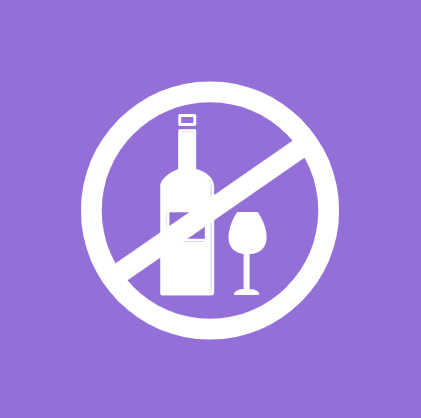
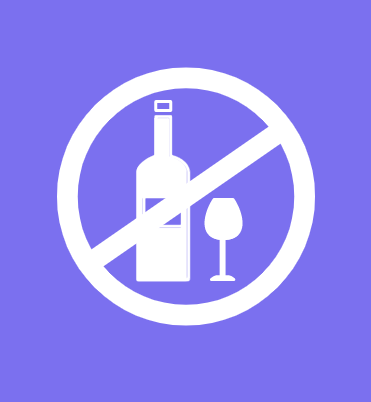
test table

diff --git a/index.html b/index.html
@@ -5,7 +5,8 @@
     <meta charset="UTF-8">
     <meta name="viewport" content="width=device-width, initial-scale=1.0">
 	<meta http-equiv="X-UA-Compatible" content="ie=edge">
-    <title>NO DRINK</title>
+	<title>NO DRINK</title>
+	<script src="https://ajax.googleapis.com/ajax/libs/jquery/3.2.1/jquery.min.js"></script>
 </head>
 <body>
     <div class="header-container">
@@ -15,6 +16,7 @@
 					<li><a class = "a-home" href="#home">홈</a></li>
 					<li><a class = "a-statistics" href="#statistics">현황</a></li>
 					<li><a class = "a-danger" href="#danger">위험성</a></li>
+					<li><a class = "a-test" href="#test">자가진단</a></li>
 					<li><a class = "a-help" href="#help">도움</a></li>
 				</ul>
 			</nav>
@@ -69,26 +71,150 @@
 	</div>
 	<div class="page" id="danger">
 		<div class="icon-container">
-			<h1 style="color: #AB70C1">Click!</h5>
-			<div class="icon" onmouseover="mover1()">
+			<h2 class="text-click" style="color: #AB70C1">마우스를 대 보세요!</h2>
+			<div class="icon icon1" onmouseover="mover1()">
 				<div class="img"><img src="img/image (1).png"/></div>
 				<h2 class="text">수면 장애</h2>
 			</div>
-			<div class="icon" onmouseover="mover2()">
+			<div class="icon icon2" onmouseover="mover2()">
 				<div class="img"><img src="img/image (2).png"/></div>
 				<h2 class="text">약물 부작용</h2>
 			</div>
-			<div class="icon" onmouseover="mover3()">
+			<div class="icon icon3" onmouseover="mover3()">
 				<div class="img"><img src="img/image (3).png"/></div>
 				<h2 class="text">간 질환 발병</h2>
 			</div>
-			<div class="icon" onmouseover="mover4()">
+			<div class="icon icon4" onmouseover="mover4()">
 				<div class="img"><img src="img/image (4).png"/></div>
 				<h2 class="text">암 발병</h2>
 			</div>
 		</div>
 		<div class="detail" style="display: block; margin: 150px 25%; padding: 5px 20px; color:white; background: #AB70C1;">
 			<h4>알코올을 섭취하지 않으면 잠을 잘 수 없는 알코올 의존성 수면장애나 불면증을 겪을 수 있습니다. 알코올의존증 환자의 불면증 유병율은 연구에 따라 36~72%에 육박합니다. 또 알코올은 각성 시에 나타나는 뇌파를 수면 중에 증가시키고 신체회복에 중요한 역할을 하는 렘 수면 또한 차단하여 일어난 후에도 피로를 느끼게 합니다.</h4>
+		</div>
+	</div>
+	<div class="page" id="test">
+		<div class="test-table">
+			<h1 style="color:white; text-align:center">알콜중독 자가진단 테스트</h1>
+			<h5 style="color:white; text-align:center">출처 : 보건복지부</h5>
+			<table style="margin: auto; text-align:center; border-spacing: 10px 30px">
+				<tr>
+					<td>얼마나 술을 자주 마십니까?</td>
+					<td><input type="radio" name="q1" value=0><br>전혀 안 마심</td>
+					<td><input type="radio" name="q1" value=1><br>월 1회 미만</td>
+					<td><input type="radio" name="q1" value=2><br>월 2~3회</td>
+					<td><input type="radio" name="q1" value=3><br>주 2~3회</td>
+					<td><input type="radio" name="q1" value=4><br>주 4회 이상</td>
+				</tr>
+				<tr>
+					<td>술을 마시면 한번에 몇 잔정도 마십니까?</td>
+					<td><input type="radio" name="q2" value=0><br>전혀 안 마심</td>
+					<td><input type="radio" name="q2" value=1><br>소주 1~2잔</td>
+					<td><input type="radio" name="q2" value=2><br>소주 3~4잔</td>
+					<td><input type="radio" name="q2" value=3><br>소주 5~6잔</td>
+					<td><input type="radio" name="q2" value=4><br>소주 7~9잔</td>
+				</tr>
+				<tr>
+					<td>한번에 소주 한 병 또는 맥주4병 이상 마시는 경우는 얼마나 자주 있습니까?</td>
+					<td><input type="radio" name="q3" value=0><br>없음</td>
+					<td><input type="radio" name="q3" value=1><br>월 1회 미만</td>
+					<td><input type="radio" name="q3" value=2><br>월 1회</td>
+					<td><input type="radio" name="q3" value=3><br>주 1회</td>
+					<td><input type="radio" name="q3" value=4><br>거의 매일</td>
+				</tr>
+				<tr>
+					<td>지난 일년간 한번 술을 마시기 시작하면 멈출 수 없었던 때가 얼마나 자주 있었습니까?</td>
+					<td><input type="radio" name="q4" value=0><br>없음</td>
+					<td><input type="radio" name="q4" value=1><br>월 1회 미만</td>
+					<td><input type="radio" name="q4" value=2><br>월 1회</td>
+					<td><input type="radio" name="q4" value=3><br>주 1회</td>
+					<td><input type="radio" name="q4" value=4><br>거의 매일</td>
+				</tr>
+				<tr>
+					<td>지난 일년간 평소 같으면 할수 있었던 일을 음주 때문에 하지 못한 적이 얼마나 자주 있었습니까?</td>
+					<td><input type="radio" name="q5" value=0><br>없음</td>
+					<td><input type="radio" name="q5" value=1><br>월 1회 미만</td>
+					<td><input type="radio" name="q5" value=2><br>월 1회</td>
+					<td><input type="radio" name="q5" value=3><br>주 1회</td>
+					<td><input type="radio" name="q5" value=4><br>거의 매일</td>
+				</tr>
+				<tr>
+					<td>지난 일년간 술을 마신 다음날 해장술을 마신 적은 얼마나 자주 있었습니까?</td>
+					<td><input type="radio" name="q6" value=0><br>없음</td>
+					<td><input type="radio" name="q6" value=1><br>월 1회 미만</td>
+					<td><input type="radio" name="q6" value=2><br>월 1회</td>
+					<td><input type="radio" name="q6" value=3><br>주 1회</td>
+					<td><input type="radio" name="q6" value=4><br>거의 매일</td>
+				</tr>
+				<tr>
+					<td>지난 일년간 음주 후에 죄책감을 느끼거나 후회한 적이 얼마나 자주 있었습니까?</td>
+					<td><input type="radio" name="q7" value=0><br>없음</td>
+					<td><input type="radio" name="q7" value=1><br>월 1회 미만</td>
+					<td><input type="radio" name="q7" value=2><br>월 1회</td>
+					<td><input type="radio" name="q7" value=3><br>주 1회</td>
+					<td><input type="radio" name="q7" value=4><br>거의 매일</td>
+				</tr>
+				<tr>
+					<td>지난 일년간 음주 때문에 전날 밤에 있었던 일이 기억나지 않았던 적이 얼마나 자주 있었습니까?</td>
+					<td><input type="radio" name="q8" value=0><br>없음</td>
+					<td><input type="radio" name="q8" value=1><br>월 1회 미만</td>
+					<td><input type="radio" name="q8" value=2><br>월 1회</td>
+					<td><input type="radio" name="q8" value=3><br>주 1회</td>
+					<td><input type="radio" name="q8" value=4><br>거의 매일</td>
+				</tr>
+				<tr>
+					<td>음주로 인해 자신이나 다른 사람을 다치게 한 적이 있습니까?</td>
+					<td><input type="radio" name="q9" value=0><br>없음</td>
+					<td></td>
+					<td><input type="radio" name="q9" value=2><br>있었지만 지난 1년간은 없음</td>
+					<td></td>
+					<td><input type="radio" name="q9" value=4><br>지난 1년간 있었다.</td>
+				</tr>
+				<tr>
+					<td>친척이나 친구, 의사가 당신이 술 마시는 것을 걱정하거나 당신에게 술 끊기를 권유한 적이 있었습니까?</td>
+					<td><input type="radio" name="q10" value=0><br>없음</td>
+					<td></td>
+					<td><input type="radio" name="q10" value=2><br>있었지만 지난 1년간은 없음</td>
+					<td></td>
+					<td><input type="radio" name="q10" value=4><br>지난 1년간 있었다.</td>
+				</tr>
+			</table>
+			<br>
+			<br>
+			<br>
+			<br>
+			<div class="result-container" style="text-align: center;">
+				<button type="button" class="button" style="text-align: center;">결과 보기</button>
+				<div class="result" style="padding: 5px 20px; color:white;">
+					<h3></h4>
+					<h4></h5>
+				</div>
+			</div>
+			<script type="text/javascript">
+				$(document).ready(function () {
+				  $('.button').click(function () {
+					var value = 0;
+					for (var i = 1; i <= 10; i++) {
+						value += Number($('input[name="q'+i+'"]:checked').val());
+					}
+					if (!isNaN(value)) {
+						if (value < 9) {
+							$(".result h3").text(value + "점 : 정상음주");
+							$(".result h4").text("정상적인 음주습관을 가지고 있습니다.");
+						} else if (value < 12) {
+							$(".result h3").text(value + "점 : 위험음주 수준으로 주의를 요함");
+							$(".result h4").text("아직까지는 특별히 심각한 음주로 인한 문제가 발생하지는 않았지만, 향후 음주로 인한 문제가 발생할 가능성이 있습니다. 음주량을 줄이거나 음주횟수를 줄여 적정음주를 실행하도록 하는 것이 좋습니다.");
+						} else if (value < 20) {
+							$(".result h3").text(value + "점 : 고위험음주 혹은 잠재적인 알콜 사용장애 환자");
+							$(".result h4").text("이미 신체적 건강이나 행동상의 문제가 나타나는 수준으로 속히 전문의의 진찰을 받는 것이 좋습니다.");
+						} else {
+							$(".result h3").text(value + "점 : 알콜 사용장애 환자");
+							$(".result h4").text("이미 알콜 사용장애, 특히 알콜 의존 상태임이 강력히 시사됩니다. 속히 전문의의 진찰을 받고 전문화된 치료를 시작하는 것이 좋습니다.");
+						}
+					}
+				  });
+				});
+			  </script>
 		</div>
 	</div>
 	<div class="page" id="help">

diff --git a/index.js b/index.js
@@ -23,7 +23,21 @@ function draw(max, classname, colorname){
  
  ///////////////////////
  
- var flag = 0;
+ var flag = 0,  i = 0, t = 0;
+
+ textClick = setInterval(function() {
+    if (t == 0) {
+        i++;
+        if (i == 100) t = 1;
+    }
+    if (t == 1){
+        i--;
+        if (i == 0) t = 0;
+    }
+    $(".text-click").css({
+        "opacity":i+"%"
+    });
+ }, 5);
 
  $(document).ready(function() {
     var agent = navigator.userAgent.toLowerCase();
@@ -34,13 +48,15 @@ function draw(max, classname, colorname){
     }
  });
  
+ 
  $(window).on("scroll", function() {
      var st = ($(window).scrollTop() - 1600) / 2 - 10;
      var st2 = 100 - ($("#statistics .chart-section").position().top - 400 - $(window).scrollTop());
      var st3 = 100 - ($("#statistics .s1 .text").position().top - 400 - $(window).scrollTop());
      var st4 = 100 - ($("#danger").position().top - 200 - $(window).scrollTop());
-     var st5 = 100 - ($("#help .s119").position().top - 400 - $(window).scrollTop());
-     var st6 = 100 - ($("#help .text").position().top - 400 - $(window).scrollTop());
+     var st5 = 100 - ($("#test .test-table").position().top - 400 - $(window).scrollTop());
+     var st6 = 100 - ($("#help .s119").position().top - 400 - $(window).scrollTop());
+     var st7 = 100 - ($("#help .text").position().top - 400 - $(window).scrollTop());
      if ($(window).scrollTop() < 1800 && $(window).scrollTop() > 1600) {
          $(".header-container").css({
              "opacity": st + "%"
@@ -90,17 +106,26 @@ function draw(max, classname, colorname){
          });
      }
      if ($(window).scrollTop() < $("#danger").position().top - 200) {
-         $("#danger").css({
-             "opacity": st4 + "%"
-         });
-     } else {
-         $("#danger").css({
-             "opacity": "100%"
-         });
-     }
-     if ($(window).scrollTop() < $("#help .s119").position().top - 400) {
+        $("#danger").css({
+            "opacity": st4 + "%"
+        });
+    } else {
+        $("#danger").css({
+            "opacity": "100%"
+        });
+    }
+    if ($(window).scrollTop() < $("#test .test-table").position().top - 200) {
+        $("#test .test-table").css({
+            "opacity": st5 + "%"
+        });
+    } else {
+        $("#test .test-table").css({
+            "opacity": "100%"
+        });
+    }
+    if ($(window).scrollTop() < $("#help .s119").position().top - 400) {
          $("#help .s119").css({
-             "opacity": st5 + "%"
+             "opacity": st6 + "%"
          });
      } else {
          $("#help .s119").css({
@@ -109,7 +134,7 @@ function draw(max, classname, colorname){
      }
      if ($(window).scrollTop() < $("#help .text").position().top - 400) {
          $("#help .text").css({
-             "opacity": st6 + "%"
+             "opacity": st7 + "%"
          });
      } else {
          $("#help .text").css({
@@ -122,9 +147,16 @@ function draw(max, classname, colorname){
              "color": "black"
          });
          $(".a-help").css({
-             "color": "#9370D8"
+             "color": "#7B70EF"
          });
-     } else if ($(window).scrollTop() >= $("#danger").position().top - 50) {
+     } else if ($(window).scrollTop() >= $("#test").position().top - 50) {
+        $("header a").css({
+            "color": "black"
+        });
+        $(".a-test").css({
+            "color": "#9370D8"
+        });
+    } else if ($(window).scrollTop() >= $("#danger").position().top - 50) {
          $("header a").css({
              "color": "black"
          });
@@ -143,18 +175,43 @@ function draw(max, classname, colorname){
 
  ////
 
- console.log($(".icon-container").position().top);
- console.log($(".detail").position().top);
  $(".detail h4").text("알코올을 섭취하지 않으면 잠을 잘 수 없는 알코올 의존성 수면장애나 불면증을 겪을 수 있습니다. 알코올의존증 환자의 불면증 유병율은 연구에 따라 36~72%에 육박합니다. 또 알코올은 각성 시에 나타나는 뇌파를 수면 중에 증가시키고 신체회복에 중요한 역할을 하는 렘 수면 또한 차단하여 일어난 후에도 피로를 느끼게 합니다.");
- function mover1(){
+ $(".icon1").css({
+    "transform": "scale(1.1)"
+ })
+function mover1(){
+    $(".icon").css({
+        "transform": "scale(1.0)"
+    })
+    $(".icon1").css({
+        "transform": "scale(1.1)"
+    })
     $(".detail h4").text("알코올을 섭취하지 않으면 잠을 잘 수 없는 알코올 의존성 수면장애나 불면증을 겪을 수 있습니다. 알코올의존증 환자의 불면증 유병율은 연구에 따라 36~72%에 육박합니다. 또 알코올은 각성 시에 나타나는 뇌파를 수면 중에 증가시키고 신체회복에 중요한 역할을 하는 렘 수면 또한 차단하여 일어난 후에도 피로를 느끼게 합니다.");
 }
 function mover2(){
+    $(".icon").css({
+        "transform": "scale(1.0)"
+    })
+    $(".icon2").css({
+        "transform": "scale(1.1)"
+    })
     $(".detail h4").text("음주 전후 약물을 섭취하면 알코올이 약물의 대사을 저해하여 약물농도를 높이거나 독성물질의 발생을 촉진해 약물의 부작용의 발현 빈도나 강도를 상승시킬 수 있고, 반대로 약물의 분해를 촉진하여 약효를 떨어뜨릴 수도 있습니다. 위염 등 위장장애 및 위장출혈, 간 손상, 저혈압 등과 같은 부작용을 겪을 수 있습니다.\n");
 }
 function mover3(){
+    $(".icon").css({
+        "transform": "scale(1.0)"
+    })
+    $(".icon3").css({
+        "transform": "scale(1.1)"
+    })
     $(".detail h4").text("과다한 음주는 간질환을 유발합니다.\n무증상 지방간에서 알코올성 간염, 간경변, 말기 간부전에 이르는 다양한 질환에 노출될 수 있습니다.");
 }
 function mover4(){
+    $(".icon").css({
+        "transform": "scale(1.0)"
+    })
+    $(".icon4").css({
+        "transform": "scale(1.1)"
+    })
     $(".detail h4").text("세계보건기구(WTO)는 술을 1급 발암 물질로 지정하고 술을 마시면 마실수록 암 발생 위험이 높아진다고 경고했습니다.\n인체가 흡수한 발암 물질을 녹여 점막이나 인체 조직 등에 쉽게 침투하도록 돕는 역할을 합니다.\n알코올이 몸에서 흡수되는 과정에서 생성되는 아세트알데히드 역시 암을 일으킬 수 있습니다.");
 }

diff --git a/style.css b/style.css
@@ -203,6 +203,24 @@ span.center{
 	line-height: 150%;
 }
 
+#test {
+	height: 1700px;
+	background: #9370D8;
+}
+
+.test-table {
+	position: relative;
+	top: 50%;
+	color: white;
+	transform: translate(0%, -50%);
+	font-weight: 800;
+	font-size: 1.0rem;
+}
+
+.test-table td {
+	font-weight: 400;
+}
+
 #help {
 	height: 800px;
 }
@@ -216,14 +234,14 @@ span.center{
 	position: relative;
 	top: 50%;
 	text-align: center;
-	color: #9370D8;
+	color: #7B70EF;
 	transform: translate(0%, -50%);
 	font-weight: 800;
 	font-size: 1.0rem;
 }
 
 #help .text-container {
-	background: #9370D8;
+	background: #7B70EF;
 	display: block;
 	height: 800px;
 }
